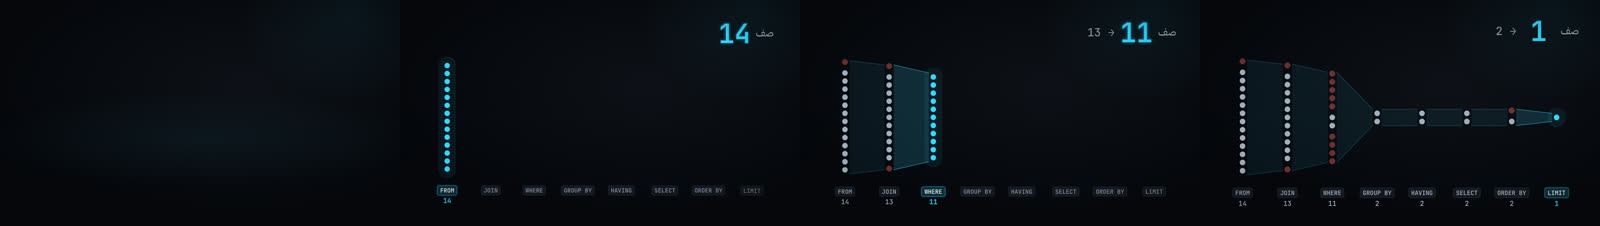
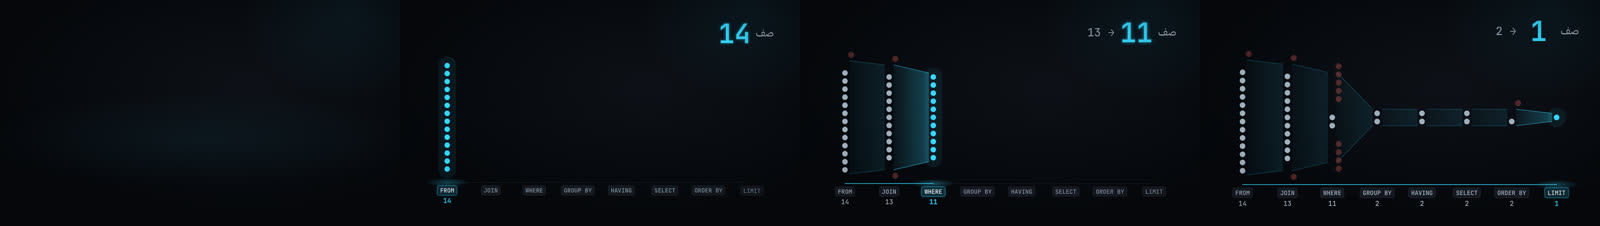
P7 data: RowFunnel implemented (tumbling dropped rows, banded light, stage rail, under-light pool); snap det 0, perf lite/standard/hero within budget; baselines pending-critic
Claude-Session: https://claude.ai/code/session_01VrU9wxU8GmuhdhWAAHnnQ8

diff --git a/studio/src/components/RowFunnel/RowFunnel.tsx b/studio/src/components/RowFunnel/RowFunnel.tsx
@@ -38,6 +38,7 @@ export const RowFunnelView: React.FC<DcProps<Props>> = ({props, ctx}) => {
   const rtl = rtlOf(...st.map((s) => s.label));
   const {w: W, h: H} = ctx.box;
   const reach = reachTimes(props, ctx);
+  const gid = `rf-${ctx.id}`;
   let active = 0;
   for (let k = 0; k < n; k++) if (reach[k].t <= t) active = k;
   const vals = st.map((s) => s.rows.value);
@@ -93,6 +94,10 @@ export const RowFunnelView: React.FC<DcProps<Props>> = ({props, ctx}) => {
   const smallFs = Math.round(bigFs * 0.42);
   const unitFs = Math.max(SIZE.labelMin, Math.round(bigFs * 0.36));
 
+  const bandY = (k: number, q: number) => {
+    const h0 = hOf(k);
+    return {h0, h1: h0 + (hOf(k + 1) - h0) * q};
+  };
   const band = (k: number) => {
     // funnel band from column k to k+1, drawn in reading direction as stage k+1 is reached
     const q = litQ(k + 1);
@@ -100,13 +105,19 @@ export const RowFunnelView: React.FC<DcProps<Props>> = ({props, ctx}) => {
     const x0 = colX(k) + (rtl ? -colW / 2 : colW / 2);
     const x1full = colX(k + 1) + (rtl ? colW / 2 : -colW / 2);
     const x1 = x0 + (x1full - x0) * q;
-    const h0 = hOf(k);
-    const h1 = h0 + (hOf(k + 1) - h0) * q;
+    const {h0, h1} = bandY(k, q);
     const pts = `${x0},${cy - h0 / 2} ${x1},${cy - h1 / 2} ${x1},${cy + h1 / 2} ${x0},${cy + h0 / 2}`;
     const isCur = k + 1 === active;
+    // light falls from the lit (current) end: the band is a gradient in the reading direction, brighter toward the stage just reached
     return (
       <g key={`b${k}`}>
-        <polygon points={pts} fill={tint(C.signal, isCur ? 0.16 : 0.07)} />
+        <defs>
+          <linearGradient id={`${gid}-bg${k}`} gradientUnits="userSpaceOnUse" x1={x0} x2={x1full} y1={0} y2={0}>
+            <stop offset="0" stopColor={C.signal} stopOpacity={isCur ? 0.05 : 0.03} />
+            <stop offset="1" stopColor={C.signal} stopOpacity={isCur ? 0.28 : 0.1} />
+          </linearGradient>
+        </defs>
+        <polygon points={pts} fill={`url(#${gid}-bg${k})`} />
         <polyline points={`${x0},${cy - h0 / 2} ${x1},${cy - h1 / 2}`} stroke={tint(C.signal, isCur ? 0.8 : 0.35)} strokeWidth={2} fill="none" />
         <polyline points={`${x0},${cy + h0 / 2} ${x1},${cy + h1 / 2}`} stroke={tint(C.signal, isCur ? 0.8 : 0.35)} strokeWidth={2} fill="none" />
       </g>
@@ -123,26 +134,52 @@ export const RowFunnelView: React.FC<DcProps<Props>> = ({props, ctx}) => {
     const dropQ = k < active ? litQ(k + 1) : 0;
     if (!dots) {
       const h = hOf(k) * q;
-      return <rect key={`c${k}`} x={x - colW / 2} y={cy - h / 2} width={colW} height={h} rx={6} fill={tint(col, isAct ? 0.85 : 0.45)} />;
+      const hk = k < active ? Math.min(h, hOf(k + 1) * q) : h; // kept share (the next stage's rows); the rest was dropped here
+      const hd = (h - hk) / 2;
+      return (
+        <g key={`c${k}`}>
+          <rect x={x - colW / 2} y={cy - hk / 2} width={colW} height={hk} rx={6} fill={tint(col, isAct ? 0.85 : 0.45)} />
+          {hd > 0.5 ? <rect x={x - colW / 2} y={cy - h / 2} width={colW} height={hd} rx={4} fill={tint(C.crit, 0.55)} /> : null}
+          {hd > 0.5 ? <rect x={x - colW / 2} y={cy + hk / 2} width={colW} height={hd} rx={4} fill={tint(C.crit, 0.55)} /> : null}
+        </g>
+      );
     }
     const v = vals[k];
     const top = cy - (v * d * 1.45) / 2;
     // the stage squeezes the dropped rows out at BOTH edges (outermost dots first), so survivors stay centred on the band
     const outer = Array.from({length: v}, (_, i) => i).sort((a, b) => Math.abs(b - (v - 1) / 2) - Math.abs(a - (v - 1) / 2) || a - b);
     const droppedSet = new Set(next !== null && next < v ? outer.slice(0, v - next) : []);
-    return (
-      <g key={`c${k}`}>
-        {Array.from({length: v}, (_, i) => {
-          const dq = Math.min(1, Math.max(0, q * 1.6 - (i / Math.max(1, v)) * 0.6));
-          const dropped = droppedSet.has(i);
-          const c = dropped ? C.crit : col;
-          const op = dropped ? 1 - 0.5 * dropQ : 1;
-          const r = (d / 2) * (0.4 + 0.6 * dq);
-          const yy = top + (i + 0.5) * d * 1.45 + (dropped ? Math.sign(i - (v - 1) / 2) * dropQ * d * 0.5 : 0);
-          return <circle key={i} cx={x} cy={yy} r={r} fill={dropped && dropQ > 0 ? tint(C.crit, 0.25 + 0.55 * dropQ) : c} opacity={dq * op} stroke={dropped && dropQ > 0 ? c : 'none'} strokeWidth={dropped ? 1.5 : 0} />;
-        })}
-      </g>
-    );
+    // dropped rows tumble out of the funnel wall (ballistic arc outward, spin, 3-sample trail), then rest as faint crit marks
+    const u = k < active ? revealProgress(t - reach[k + 1].t, 2 * morph, ease.camera) : 0;
+    const dir = rtl ? -1 : 1;
+    const marks: React.ReactNode[] = [];
+    for (let i = 0; i < v; i++) {
+      const dq = Math.min(1, Math.max(0, q * 1.6 - (i / Math.max(1, v)) * 0.6));
+      const dropped = droppedSet.has(i);
+      const sgn = i - (v - 1) / 2 >= 0 ? 1 : -1;
+      const by = top + (i + 0.5) * d * 1.45;
+      const r = (d / 2) * (0.4 + 0.6 * dq);
+      if (!dropped || u <= 0) {
+        marks.push(<circle key={i} cx={x} cy={by} r={r} fill={dropped ? tint(C.crit, 0.25) : col} opacity={dq} stroke={dropped ? C.crit : 'none'} strokeWidth={dropped ? 1.5 : 0} />);
+        continue;
+      }
+      const at = (w: number) => ({px: x + dir * w * pitch * 0.14, py: by + sgn * (Math.sin(w * Math.PI * 0.5) * d * 1.3 + w * w * d * 0.5)});
+      for (let j = 3; j >= 1; j--) {
+        const w = u * (1 - j * 0.16);
+        if (w <= 0 || u >= 1) continue;
+        const {px, py} = at(w);
+        marks.push(<circle key={`t${i}${j}`} cx={px} cy={py} r={r * (0.9 - j * 0.18)} fill={C.crit} opacity={(0.42 - j * 0.1) * (1 - u)} />);
+      }
+      const {px, py} = at(u);
+      const m = r * 0.55;
+      marks.push(
+        <g key={i} transform={`translate(${px} ${py}) rotate(${u * 200 * dir})`} opacity={dq * (1 - 0.6 * u)}>
+          <circle cx={0} cy={0} r={r} fill={tint(C.crit, 0.25 + 0.4 * u)} stroke={C.crit} strokeWidth={1.5} />
+          <path d={`M${-m} ${-m}L${m} ${m}M${m} ${-m}L${-m} ${m}`} stroke={C.crit} strokeWidth={1.5} opacity={u} fill="none" />
+        </g>,
+      );
+    }
+    return <g key={`c${k}`}>{marks}</g>;
   };
 
   return (
@@ -161,6 +198,21 @@ export const RowFunnelView: React.FC<DcProps<Props>> = ({props, ctx}) => {
         {Array.from({length: n - 1}, (_, k) => band(k))}
         {/* active column halo (cheap: one translucent wide rect, no filter) */}
         {litQ(active) > 0 ? <rect x={colX(active) - colW} y={cy - hOf(active) / 2 - d} width={colW * 2} height={hOf(active) + 2 * d} rx={colW} fill={tint(C.signal, 0.08 * litQ(active))} /> : null}
+        {/* under-light pool (LK-F): the lit column lights the floor beneath it */}
+        {litQ(active) > 0 ? (
+          <>
+            <defs>
+              <radialGradient id={`${gid}-pool`}>
+                <stop offset="0" stopColor={C.signal} stopOpacity={0.3} />
+                <stop offset="1" stopColor={C.signal} stopOpacity={0} />
+              </radialGradient>
+            </defs>
+            <ellipse cx={colX(active)} cy={headH + chartH + 2} rx={Math.min(pitch * 0.8, colW * 2.6)} ry={Math.max(8, chartH * 0.035)} fill={`url(#${gid}-pool)`} opacity={litQ(active)} />
+          </>
+        ) : null}
+        {/* stage rail: ghost track for the stages to come (no values), signal fill up to the stage reached */}
+        <line x1={colX(0)} x2={colX(n - 1)} y1={headH + chartH + 2} y2={headH + chartH + 2} stroke={tint(C.ink3, 0.5)} strokeWidth={2} strokeDasharray="3 7" opacity={head.p} />
+        {active > 0 ? <line x1={colX(0)} x2={colX(active - 1) + (colX(active) - colX(active - 1)) * litQ(active)} y1={headH + chartH + 2} y2={headH + chartH + 2} stroke={C.signal} strokeWidth={3} strokeLinecap="round" /> : null}
         {Array.from({length: n}, (_, k) => column(k))}
       </svg>
       {/* footer: stage chips + counts, one per column (AT-4: pitch - chip >= 40 px) */}

diff --git a/studio/src/demos/data.tsx b/studio/src/demos/data.tsx
@@ -91,7 +91,7 @@ const demos: DemoModule = {
                 {label: 'HAVING', rows: {value: 2, ref: 'd:6.3:2'}},
                 {label: 'SELECT', rows: {value: 2, ref: 'd:6.3:2'}},
                 {label: 'ORDER BY', rows: {value: 2, ref: 'd:6.3:2'}},
-                {label: 'LIMIT', rows: {value: 1, ref: 'd:6.3:2'}},
+                {label: 'LIMIT', rows: {value: 1, ref: 'd:6.3:14'}},
               ],
             },
             at: {word: RF(1), lead_frames: 2},

diff --git a/docs/p7/catalog_status/data.md b/docs/p7/catalog_status/data.md
@@ -1,0 +1,5 @@
+# P7 catalog status: Data family
+
+| Component | Status | Notes |
+|---|---|---|
+| RowFunnel | implemented | One dot per surviving row (<= 30, else proportional bar with the dropped share in crit), funnel bands with directional light, dropped rows tumble out of the wall (arc, spin, trail), counter rolls on the `advance` word (RV1 onset, lands on the word end), stage rail, under-light pool. Demo = CH-11 funnel d:6.3:2 (14, 13, 11, 2, 2, 2, 2, 1; 8 stages, DISTINCT omitted because the frozen schema caps stages at 8: CR-007). Baselines pending-critic. Perf box s/frame at 3 slots: lite 0.106, standard 0.136, hero 0.136 (budgets 0.201 / 0.201 / 1.038). 2D SVG, no WebGL, so hero equals standard. |
